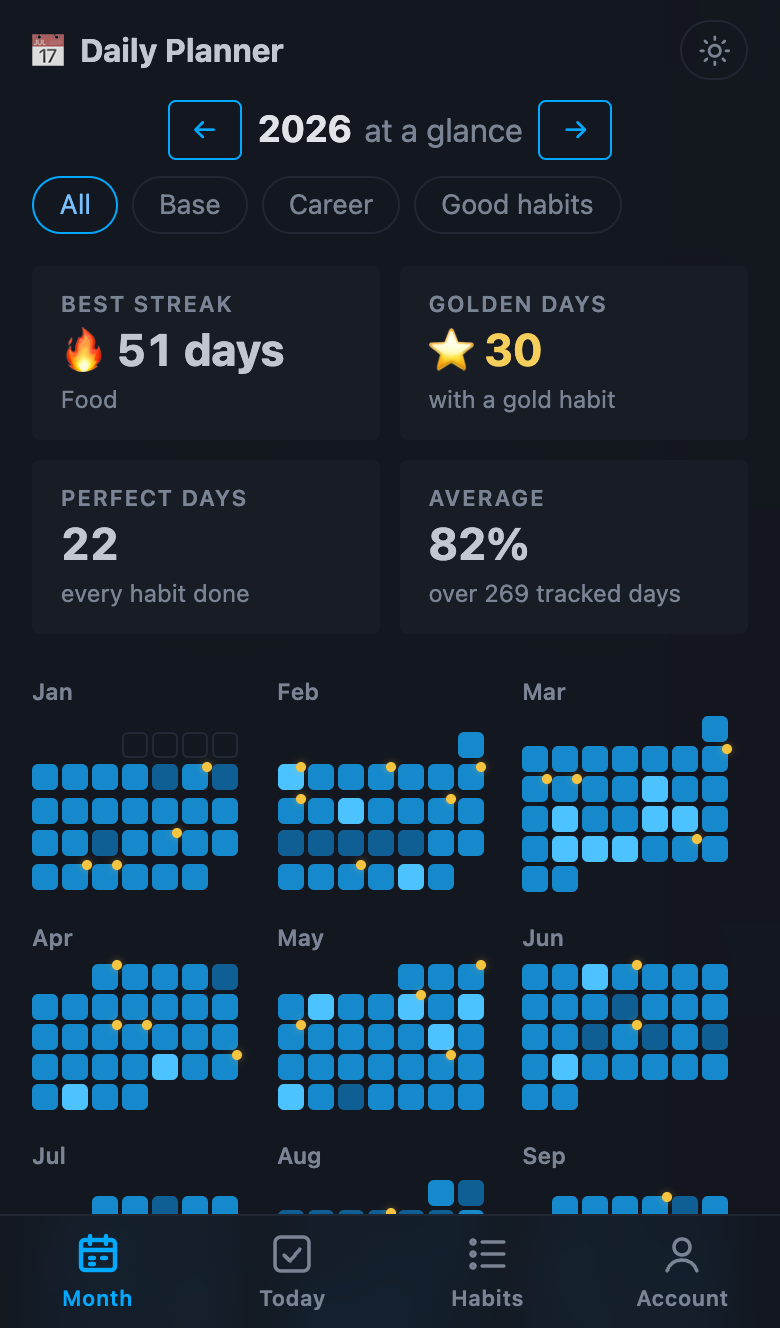
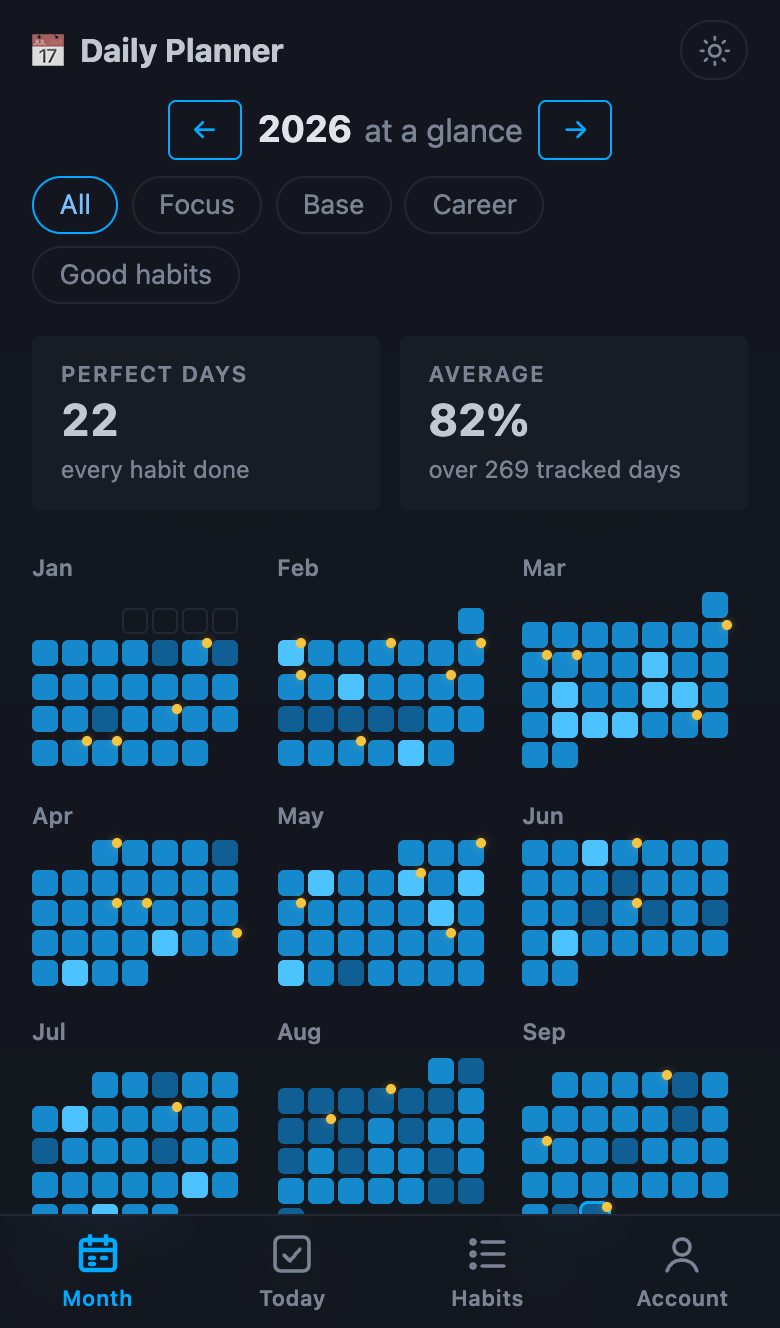
Year page: calm facts instead of badges
The year page now shows how the process goes, not rewards: the Best streak and
Golden days cards and the per-habit "🔥 best N days · ⭐ N golden" lines are gone.
Two cards stay (perfect days, average), centred above the grid; golden days are
still the gold dots in the grid. README text and year screenshots updated.

diff --git a/app/static/style.css b/app/static/style.css
@@ -535,7 +535,7 @@ body { transition: background-color .25s, color .25s; }
   color: var(--pico-muted-color); text-decoration: none; font-size: .85rem;
 }
 .year-cats a[aria-current="page"] { color: var(--pico-color); border-color: var(--pico-primary); }
-.year-tiles { display: grid; grid-template-columns: repeat(4, minmax(0, 1fr)); gap: .6rem; margin-bottom: 1.25rem; }
+.year-tiles { display: grid; grid-template-columns: repeat(2, minmax(0, 1fr)); gap: .6rem; margin: 0 auto 1.25rem; max-width: 34rem; }
 .year-tile {
   display: grid; gap: .1rem; padding: .7rem .9rem; border-radius: var(--pico-border-radius);
   background: var(--pico-card-background-color); box-shadow: var(--pico-card-box-shadow);
@@ -543,7 +543,6 @@ body { transition: background-color .25s, color .25s; }
 .year-tile .k { font-size: .7rem; font-weight: 600; letter-spacing: .07em; text-transform: uppercase; color: var(--pico-muted-color); }
 .year-tile .v { font-size: 1.4rem; font-weight: 700; line-height: 1.2; font-variant-numeric: tabular-nums; }
 .year-tile .s { font-size: .75rem; color: var(--pico-muted-color); overflow: hidden; text-overflow: ellipsis; white-space: nowrap; }
-.year-tile.gold .v { color: var(--gold-text); }
 
 .yc { display: block; width: 11px; height: 11px; border-radius: 2px; background: var(--yl0); position: relative; }
 .yc[data-l="1"] { background: var(--yl1); }
@@ -604,8 +603,6 @@ a.yc:hover, a.yc:focus-visible { outline: 1.5px solid var(--pico-color); outline
 .year-habits .bar i[data-l="1"] { background: var(--yl1); }
 .year-habits .bar i[data-l="2"] { background: var(--yl2); }
 .year-habits .bar i[data-l="4"] { background: var(--yl4); }
-.year-habits small { grid-column: 2 / -1; color: var(--pico-muted-color); font-size: .75rem; }
-.year-habits .g { color: var(--gold-text); margin-left: .6rem; }
 /* Top 3 until "Show all"; without JavaScript every habit shows. */
 .year-habits.collapsible:not(.expanded) li.more { display: none; }
 .year-habits-more { width: auto; margin: .9rem 0 0; padding: .3rem 1rem; font-size: .85rem; }

diff --git a/app/templates/year.html b/app/templates/year.html
@@ -53,16 +53,8 @@
 <p class="year-note focus-empty">No habits in Focus yet. Pick a few above and their year shows up here.</p>
 {% else %}
 {% if stats.tracked %}
+{# Quiet facts about the process, no badges: how often everything got done, and the average. #}
 <div class="year-tiles">
-  <div class="year-tile">
-    <span class="k">Best streak</span>
-    {% if stats.best and stats.best.best %}
-      <span class="v">🔥 {{ stats.best.best }} day{{ "s" if stats.best.best != 1 }}</span><span class="s">{{ stats.best.habit.name }}</span>
-    {% else %}<span class="v">—</span><span class="s">no full day yet</span>{% endif %}
-  </div>
-  <div class="year-tile gold">
-    <span class="k">Golden days</span><span class="v">⭐ {{ stats.golden_days }}</span><span class="s">with a gold habit</span>
-  </div>
   <div class="year-tile">
     <span class="k">Perfect days</span><span class="v">{{ stats.perfect_days }}</span><span class="s">every habit done</span>
   </div>
@@ -116,7 +108,6 @@
         {%- if not category %} <span class="cat">{{ category_names[h.habit.category_id] }}</span>{% endif %}</span>
       <b>{{ h.pct }}%</b>
       <span class="bar"><i data-l="{{ h.level }}" style="width: {{ h.pct }}%"></i></span>
-      <small>🔥 best {{ h.best }} day{{ "s" if h.best != 1 }}{% if h.golden %} <span class="g">⭐ {{ h.golden }} golden</span>{% endif %}</small>
     </li>
     {% endfor %}
   </ol>

diff --git a/tests/test_routes.py b/tests/test_routes.py
@@ -297,7 +297,9 @@ def test_year_page(client):
     page = client.get("/year/2026").text
     assert page.count('class="yc') >= 2 * 365  # week strip + small calendars
     assert 'title="Mon 2 Mar · 7% done · ⭐ 1 golden"' in page
-    assert all(t in page for t in ("Best streak", "Golden days", "Perfect days", "Average"))
+    assert "Perfect days" in page and "Average" in page
+    # A calm page: facts about the process, no streak or gold counters (gold stays as dots).
+    assert "Best streak" not in page and "Golden days" not in page and "🔥" not in page
     assert all(t in page for t in ("0%", "1–39%", "40–69%", "70–99%", "100%", "golden day"))
     assert 'href="/year/2025"' in page and 'href="/year/2027"' in page
     # Filter by category; someone else's (or an unknown) category is a 404.

diff --git a/README.md b/README.md
@@ -11,11 +11,11 @@ HTMX — no frontend build step.
 ![Month grid, dark theme](docs/screenshots/month-dark.png)
 
 **The whole year** on one page: every day is a square shaded by how much of it you did, a gold
-dot marks a golden day, and the records sit on top (best streak, golden and perfect days).
+dot marks a golden day, and two quiet facts sit on top (perfect days and the average).
 
 <picture>
   <source media="(prefers-color-scheme: light)" srcset="docs/screenshots/year-light.png">
-  <img src="docs/screenshots/year-dark.png" alt="Year at a glance: records and a square per day, shaded by completion">
+  <img src="docs/screenshots/year-dark.png" alt="Year at a glance: a square per day, shaded by completion">
 </picture>
 
 **On a phone** the header links become a bottom tab bar, each habit's name sits above its checks
@@ -24,7 +24,7 @@ own). Add it to the home screen and it opens full screen on today's checklist, l
 
 | Today | Month | Year | Timeline & rings |
 |:---:|:---:|:---:|:---:|
-| <img src="docs/screenshots/phone-today.png" width="200" alt="Today's checklist on a phone, with golden days and a streak"> | <img src="docs/screenshots/phone-month.png" width="200" alt="Month grid on a phone, habit names above their checks"> | <img src="docs/screenshots/phone-year.png" width="200" alt="The year on a phone: records and twelve small calendars"> | <img src="docs/screenshots/phone-stats.png" width="200" alt="Timeline with the overall and Food lines, and progress rings, on a phone"> |
+| <img src="docs/screenshots/phone-today.png" width="200" alt="Today's checklist on a phone, with golden days and a streak"> | <img src="docs/screenshots/phone-month.png" width="200" alt="Month grid on a phone, habit names above their checks"> | <img src="docs/screenshots/phone-year.png" width="200" alt="The year on a phone: perfect days, the average and twelve small calendars"> | <img src="docs/screenshots/phone-stats.png" width="200" alt="Timeline with the overall and Food lines, and progress rings, on a phone"> |
 
 ## Features
 - **Categories** (e.g. Base, Career, Good habits), each with its own progress bar, month grid and timeline
@@ -32,7 +32,7 @@ own). Add it to the home screen and it opens full screen on today's checklist, l
 - **Month grid**: every day at a glance; click any cell to tick it
 - **Golden days**: double-tap a habit's box when you did it especially well, and it turns into a gold star
 - **Streaks**: a 🔥 badge once a habit is done 5+ days in a row
-- **Year at a glance**: a square per day shaded by completion, best streaks, golden and perfect days, and the most consistent habits, per category or for a hand-picked **Focus** set of 3–4 habits
+- **Year at a glance**: a square per day shaded by completion, perfect days, the average and the most consistent habits, per category or for a hand-picked **Focus** set of habits
 - **Timelines** with progress rings per category: smooth 7-day-average trend lines with each day as a faint dot (or a Daily view with the exact values), a line per habit to show or hide (or all at once); today counts once you tick something, so an unfinished day never shows as a drop to 0%
 - **Drag-and-drop** (or keyboard) reordering and per-row highlight colours
 - **Notes** in collapsible blocks (tips, ideas, comfort), editable in place and movable between blocks
